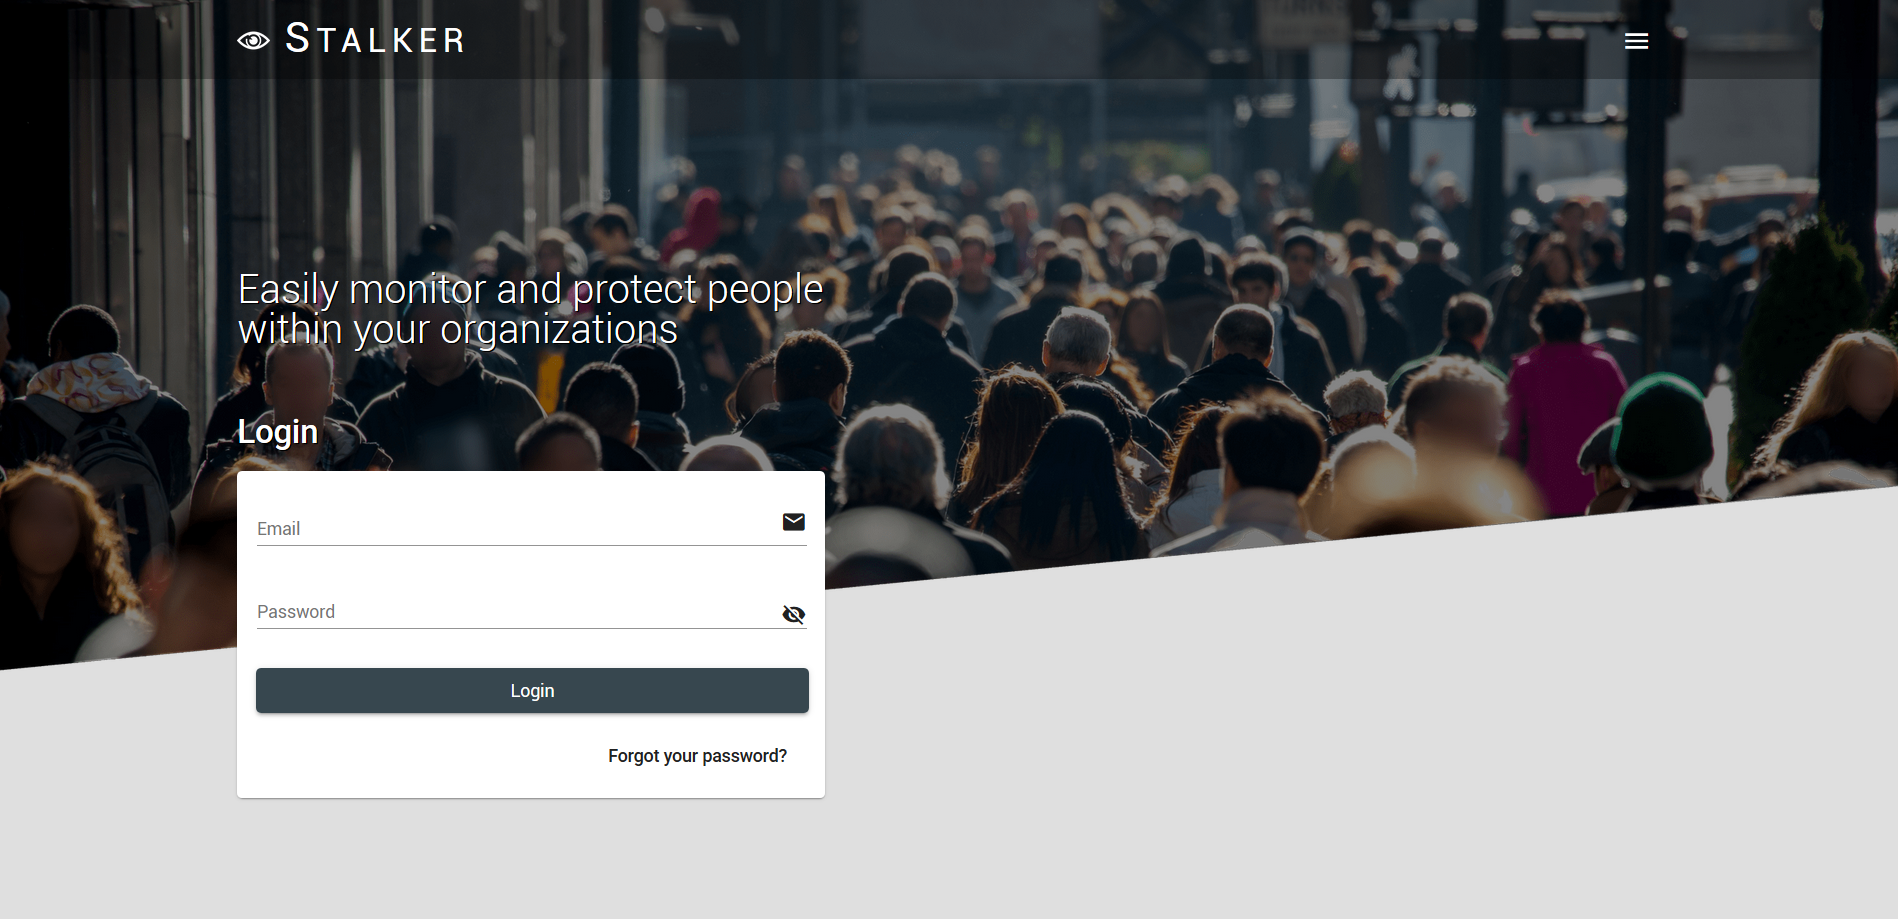
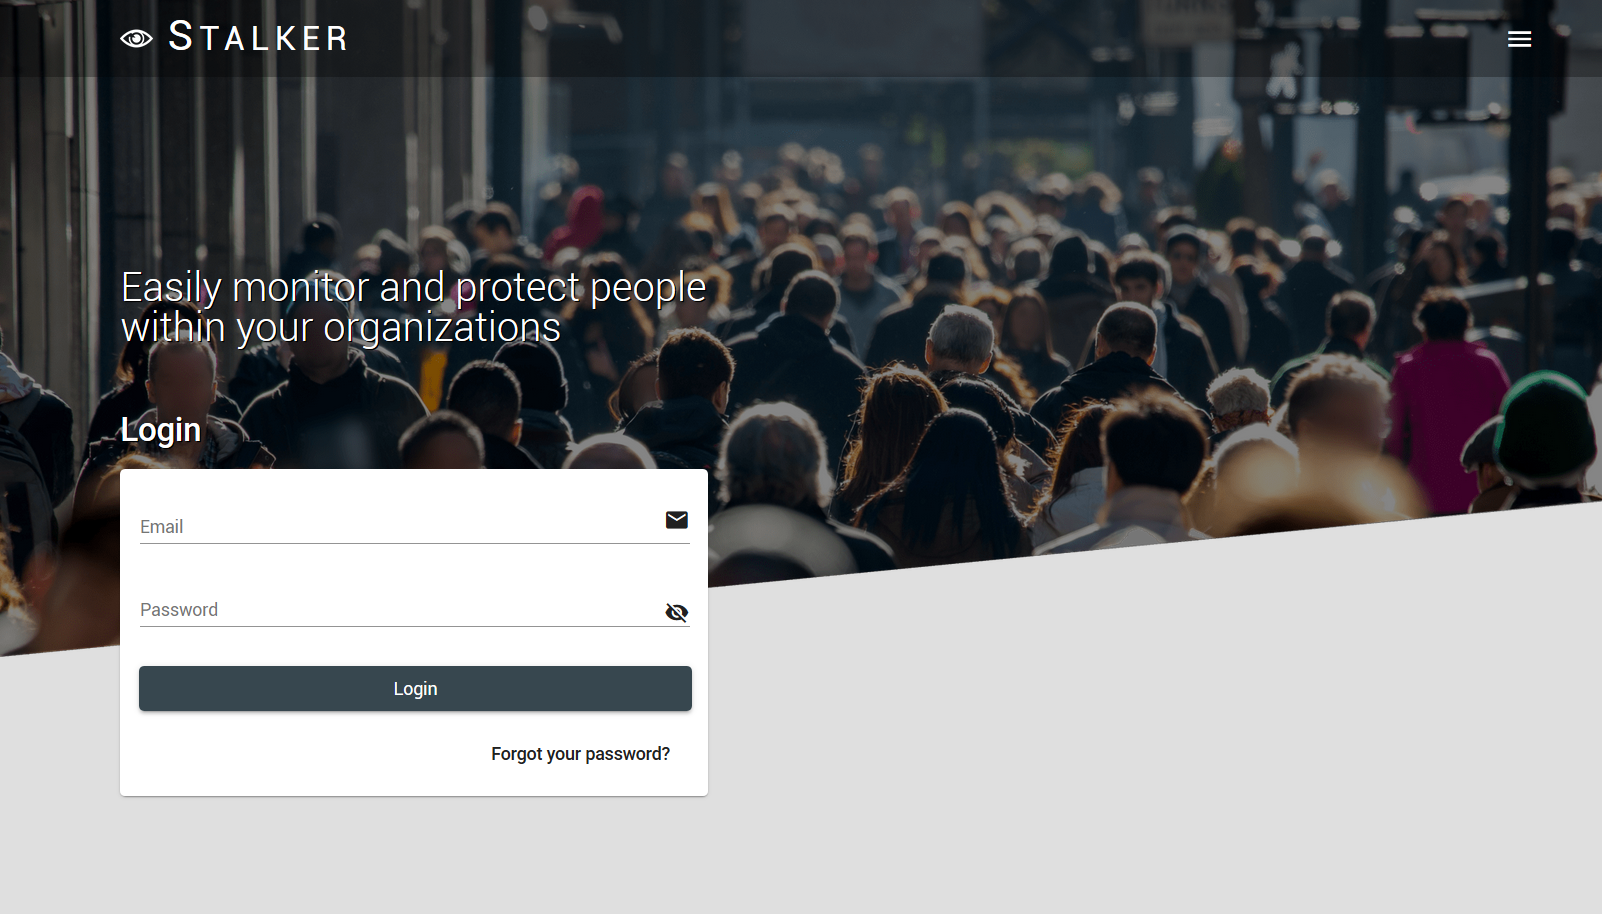
docs: add description about web app home components

diff --git a/esterni/manuale-utente/components/web-application.tex b/esterni/manuale-utente/components/web-application.tex
@@ -19,76 +19,127 @@
 
 \begin{figure}[H]
     \centering
-    \includegraphics{img/web-app/pagina-home.PNG}
+    \includegraphics[width=175mm]{img/web-app/pagina-home.PNG}
     \caption{Pagina di accesso}%
     \label{fig:web-app-pagina-accesso}
 \end{figure}
 
-\textbf{Endpoint}: localhost:4200/home
-Lorem ipsum
+La prima volta che viene aperta la web application di Stalker, l'utente viene indirizzato alla pagina principale (Home) che si trova al link \textit{localhost:4200/home}.
+
+L'utente non è autenticato e ha tre possibilità:
+\begin{itemize}
+    \item essere registrato alla web app di Stalker e accedere con le proprie credenziali email e password (~\ref{fig:web-app-accesso} ).
+    \item recuperare la password nel caso l'abbia smarrita (~\ref{fig:web-app-recupero-password} ).
+    \item selezionare il menu ad hamburger posizionato sulla barra superiore a destra, per visualizzare le informazioni riguardo a Stalker.
+\end{itemize} 
+\newpage
 
 \paragraph{Accesso alla web application}%
 \label{par:accesso-alla-web-application}
 
 \begin{figure}[H]
     \centering
-    \includegraphics{img/web-app/accesso-web-app.png}
+    \includegraphics[width=120mm]{img/web-app/accesso-web-app.png}
     \caption{Pagina di registrazione}%
     \label{fig:web-app-accesso}
 \end{figure}
 
-Lorem ipsum
+L'utente vuole accedere al sistema di Stalker, quindi deve eseguire tre passaggi:
+\begin{itemize}
+    \item inserire correttamente l'email.
+    \item inserire la password, e possibilmente visualizzarla durante la sua digitazione cliccando sulla figura a fine riga, che deve contenere almeno 8 caratteri alfanumerici e al massimo ne può contenere 32.
+    \item selezionare il pulsante \textbf{Login} per inviare le credenziali al server.
+\end{itemize} 
+
+% E' corretto?
+Nel caso l'operazione venga svolta correttamente, si avrà diritto all'accesso nella web application di Stalker, visualizzando la pagina del profilo personale (~\ref{fig:web-app-visualizza-profilo-personale} ).
+
+In caso contrario, l'utente non è autorizzato, in quanto la procedura è fallita.
+
+Le cause possono essere le seguenti:
+\begin{itemize}
+    \item l'email inserita non rispetta i vincoli imposti dal sistema di Stalker.
+    \item la password non rispetta i vincoli imposti dal sistema di Stalker.
+    \item l'email e la password inserite non rispettano i vincoli imposti dal sistema di Stalker.
+    \item l'email inserita rispetta i vincoli, ma non è presente all'interno del database di Stalker.
+    \item la password inserita rispetta i vincoli, ma non è presente all'interno del database di Stalker.
+    \item l'email e la password inserite rispettano i vincoli, ma non sono presenti all'interno del database di Stalker.
+\end{itemize}
+
+In ogni caso, il messaggio di errore non sarà specifico ma generico, per motivi di sicurezza.
+\newpage
 
 \paragraph{Recupero password}%
 \label{par:recupero-password}
 
 \begin{figure}[H]
     \centering
-    \includegraphics{img/web-app/recupero-password.PNG}
+    \includegraphics[width=150mm]{img/web-app/recupero-password.PNG}
     \caption{Recupero password}%
     \label{fig:web-app-recupero-password}
 \end{figure}
 
-Lorem ipsum
+L'utente ha smarrito la password o non se la ricorda più, quindi deve eseguire tre passaggi:
+\begin{itemize}
+    \item cliccare alla voce \textbf{Forgot your password?} presente nel form per l'accesso alla web application (~\ref{fig:web-app-pagina-accesso} ).
+    \item inserire correttamente l'email.
+    \item selezionare il pulsante \textbf{Recover} per inviare la richiesta al server.
+\end{itemize}
+
+Nel caso l'operazione venga svolta correttamente, l'utente riceverà una mail sulla propria casella postale contenente il link per il recupero della password.
+
+In caso contrario, l'utente non può recuperare la password, in quanto la procedura è fallita.
+
+Le cause possono essere le seguenti:
+\begin{itemize}
+    \item l'email inserita non rispetta i vincoli imposti dal sistema di Stalker.
+    \item l'email inserita rispetta i vincoli, ma non è presente nel database di Stalker, quindi non si può avviare la procedura.
+\end{itemize}
+
+In ogni caso, il messaggio di errore non sarà specifico ma generico, per motivi di sicurezza.
+\newpage
 
 \subsubsection{Visualizza profilo personale}%
 \label{subs:visualizza-profilo-personale}
 
 \begin{figure}[H]
     \centering
-    \includegraphics{img/web-app/visualizza-profilo-personale.PNG}
+    \includegraphics[width=120mm]{img/web-app/visualizza-profilo-personale.PNG}
     \caption{Visualizza profilo personale}%
     \label{fig:web-app-visualizza-profilo-personale}
 \end{figure}
 
 \textbf{Endpoint}: localhost:4200/users/:id
 Lorem ipsum
+\newpage
 
 \subsubsection{Visualizza organizzazioni}%
 \label{subs:visualizza-organizzazioni}
 
 % \begin{figure}[H]
 %     \centering
-%     \includegraphics{img/web-app/visualizza-organizzazioni.png}
+%     \includegraphics[width=120mm]{img/web-app/visualizza-organizzazioni.png}
 %     \caption{Visualizza organizzazioni}%
 %     \label{fig:web-app-visualizza-organizzazioni}
 % \end{figure}
 
 \textbf{Endpoint}: localhost:4200/organizations
 Lorem ipsum
+\newpage
 
 \paragraph{Visualizza dettagli organizzazione}%
 \label{par:visualizza-dettagli-organizzazione}
 
 \begin{figure}[H]
     \centering
-    \includegraphics{img/web-app/visualizza-dettagli-organizzazione.png}
+    \includegraphics[width=120mm]{img/web-app/visualizza-dettagli-organizzazione.png}
     \caption{Visualizza dettagli organizzazione}%
     \label{fig:web-app-visualizza-dettagli-organizzazione}
 \end{figure}
 
 \textbf{Endpoint}: localhost:4200/organizations/:id
 Lorem ipsum
+\newpage
 
 % Visualizza: (aggiungere un'immagine per ogni funzionalità) --> edit-organization
 % - luoghi da una mappa interattiva
@@ -102,13 +153,14 @@ Lorem ipsum
 
 % \begin{figure}[H]
 %     \centering
-%     \includegraphics{img/web-app/modifica-dettagli-organizzazione.png}
+%     \includegraphics[width=120mm]{img/web-app/modifica-dettagli-organizzazione.png}
 %     \caption{Modifica dettagli organizzazione}%
 %     \label{fig:web-app-modifica-dettagli-organizzazione}
 % \end{figure}
 
 \textbf{Endpoint}: localhost:4200/organizations/:id/edit
 Lorem ipsum
+\newpage
 
 % add other functionalities 
 

diff --git a/esterni/manuale-utente/manuale-utente.tex b/esterni/manuale-utente/manuale-utente.tex
@@ -8,14 +8,15 @@
 
 \setResponsabile{Unknown}
 \setRedattori{
-  Unknown
+  Riccardo Cestaro
+  Gobbo Alberto
 }
 \setVerificatori{
   Unknown
 }
-
 \setUso{Esterno}
-\setDescrizione{Analisi dei requisiti del gruppo \emph{GruppOne} per la realizzazione del progetto \emph{Stalker}}
+\setDescrizione{Manuale utente per il progetto \emph{Stalker} del gruppo \emph{GruppOne}}
+
 \setModifiche{%
 \rowcolor{white!80!lightgray!100} 0.3.0 & Alberto Cocco & 2020--04--13 & consegna documenti \textit{Revisione di progettazione} \\\hline % chktex 44
 \rowcolor{lightgray} 0.2.4 & Alberto Cocco & 2020--04--12 & modifica \textit{Piano di qualifica} \\\hline % chktex 44
@@ -97,8 +98,8 @@
 
 % \newpage
 % \section{Risoluzione dei problemi}%
-% \label{sec:risoluzione_dei_problemi}
-% \subfile{components/risoluzione_dei_problemi}
+% \label{sec:risoluzione-dei-problemi}
+% \subfile{components/risoluzione-dei-problemi}
 
 \newpage
 \appendix
